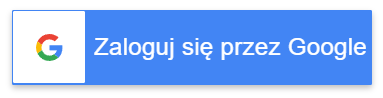
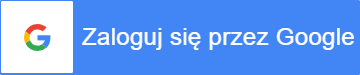
google button fix, translate flash notices, edit account view

diff --git a/app/assets/stylesheets/application.css b/app/assets/stylesheets/application.css
@@ -208,6 +208,7 @@ body{
 }
 .google-button:hover {
 	box-shadow: 0 0 10px #4285f4 !important;
+	cursor: pointer !important;
 }
 .google-form {
 	all: unset !important;

diff --git a/app/controllers/games_controller.rb b/app/controllers/games_controller.rb
@@ -44,7 +44,7 @@ class GamesController < ApplicationController
 
     respond_to do |format|
       if @game.save
-        format.html { redirect_to tournament_game_path(@tournament, @game), notice: "Game was successfully created." }
+        format.html { redirect_to tournament_game_path(@tournament, @game)}
         format.json { render :show, status: :created, location: @game }
       else
         format.html { render :new, status: :unprocessable_entity }
@@ -92,7 +92,7 @@ class GamesController < ApplicationController
         
         
       end
-      redirect_to tournament_game_path(@tournament, @game), notice: "Game was successfully updated."
+      redirect_to tournament_game_path(@tournament, @game), notice: "Mecz został zaktualizowany"
     # else
     #   format.html { render :edit, status: :unprocessable_entity }
     #   format.json { render json: @game.errors, status: :unprocessable_entity }

diff --git a/app/controllers/single_stats_controller.rb b/app/controllers/single_stats_controller.rb
@@ -59,7 +59,7 @@ class SingleStatsController < ApplicationController
     end
 
     if @single_stat.save
-      redirect_to tournament_game_path(tournament, game), notice: "Single stat was successfully created."
+      redirect_to tournament_game_path(tournament, game), notice: "Wydarzenie zostało utworzone"
     else
       render root_path
     end
@@ -99,7 +99,7 @@ class SingleStatsController < ApplicationController
         Player.find(@single_stat.first_player_id).decrement!(:games_played, 1)
       end
 
-      redirect_to new_tournament_game_team_single_stat_path(tournament, game, @single_stat.team_id), notice: "Single stat was successfully destroyed."
+      redirect_to new_tournament_game_team_single_stat_path(tournament, game, @single_stat.team_id), notice: "Wydarzenie zostało usunięte"
     else
       nil
     end
